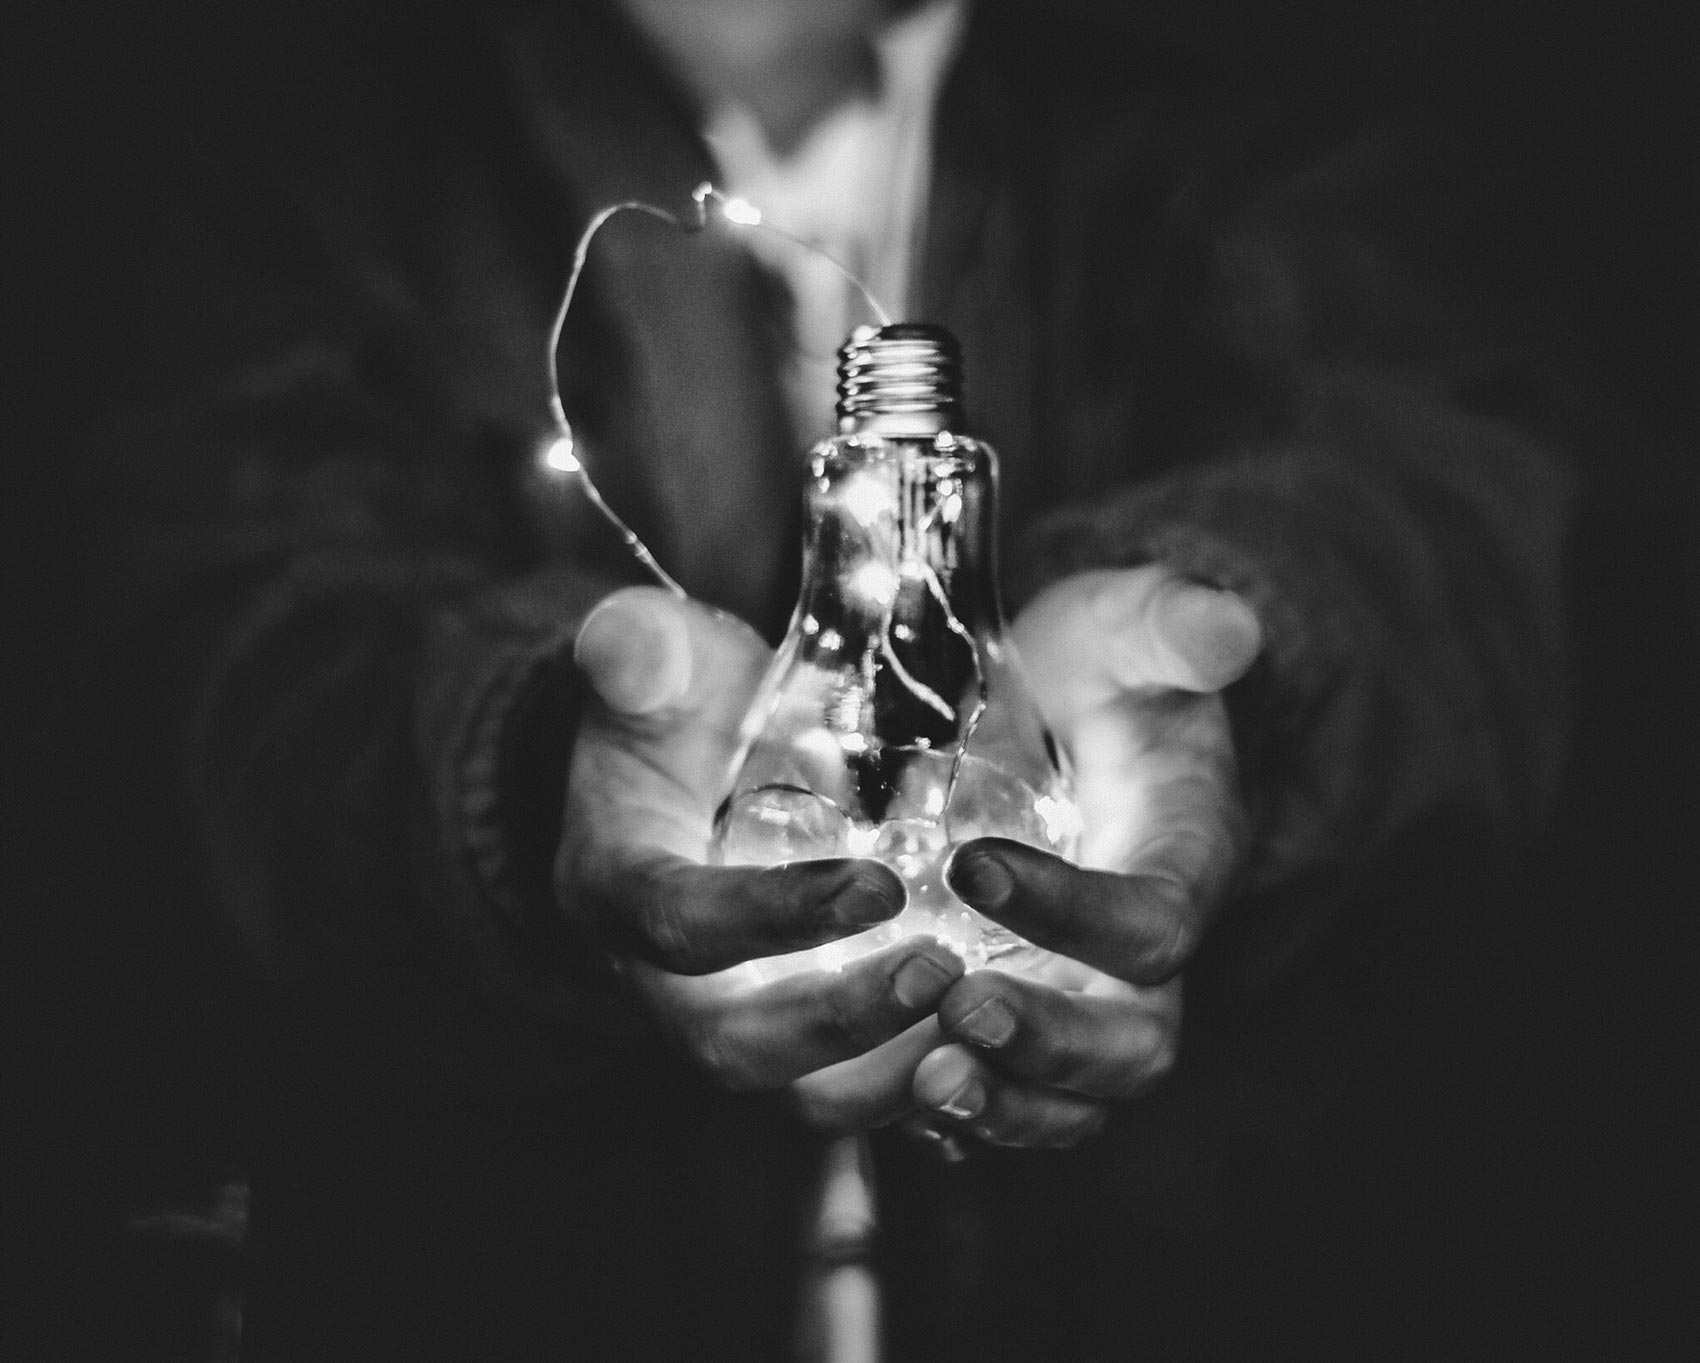
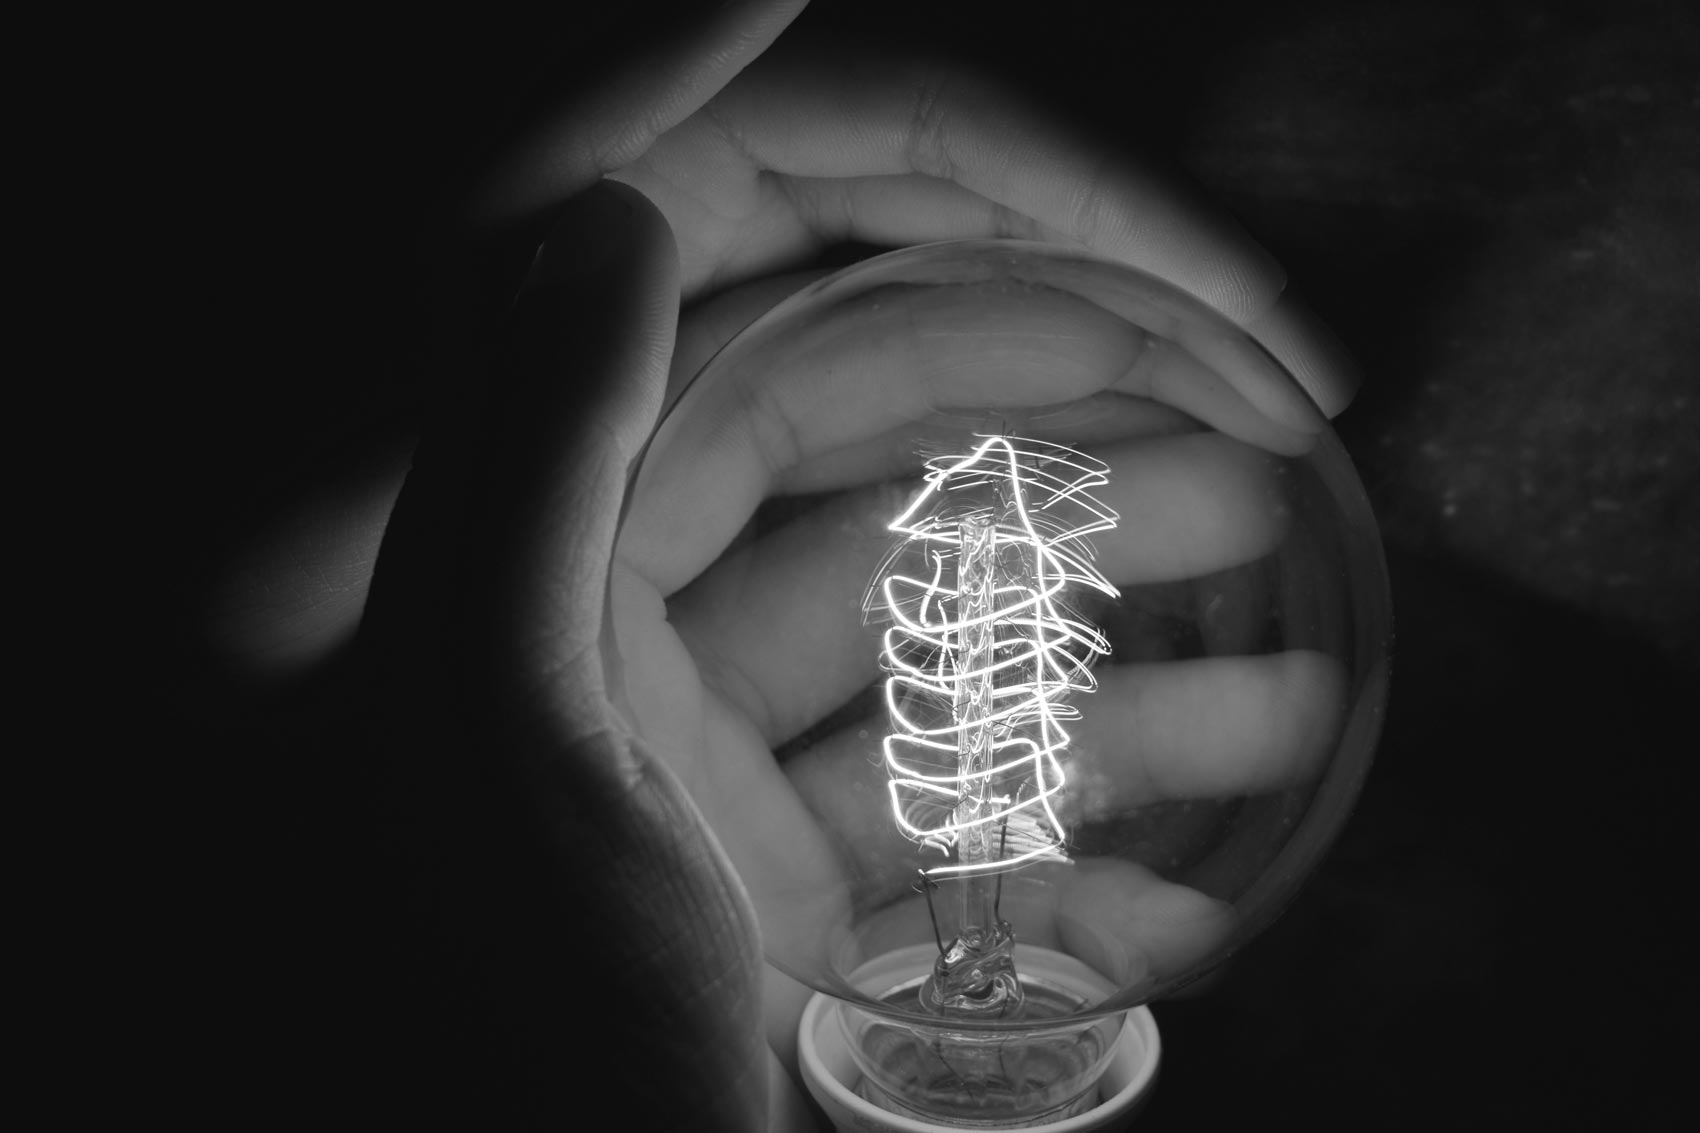
update content, reduce purple, update images

diff --git a/_sass/main.scss b/_sass/main.scss
@@ -433,6 +433,15 @@ header > nav{
 	    padding: 6rem 0;
 	}
 }
+main[data-current="home"]{
+	background: $black;
+}
+#homepage-sections{
+	display: grid;
+	grid-template-columns: inherit;
+	grid-column: 1 / 13;
+	background-color: rgba(66, 39, 144, 1);
+}
 .section-intro{
 	display: grid;
     grid-column: 1 / 13;
@@ -789,45 +798,48 @@ li.icon_list-item,li.family_list-item,li.testimonials_list-item, .posts li{
 	@media(min-width:$sm){
 		flex-direction: row;
 	}
-	.customers-questions--title{
-		display: flex;
+	h3{
+		border-bottom: 2px solid $brand-color;
+		padding-bottom: 1rem;
+		margin-bottom: 3rem;
+	}
+	.customers-questions--solutions{
+		//display: flex;
+		////flex-wrap: wrap;
 		align-items: center;
-		justify-content: center;
+		//justify-content: center;
 		flex-basis: 100%;
-		padding: 6rem;
+		padding: 6rem 4rem;
 		@media(min-width:$sm){
-			flex-basis: 33%;
-			padding: 6rem 4rem;
-		}
-		h3{
-			font-family: $base-font;
-		   // font-weight: 400;
-		    line-height: 1.5;
-		    font-size: 1.8rem;
-			padding: 0 0 1rem 0;
+			flex-basis: 50%;
+			padding: 6rem;
 		}
 	}
 	.customers-questions--list{
 		flex-basis: 100%;
-		padding: 4rem;
+		padding: 6rem 4rem;
 		//background: $light-grey;
 		@media(min-width:$sm){
-			flex-basis: 67%;
+			flex-basis: 50%;
+			padding: 6rem;
 		}
 		ul{
 			list-style: none;
-			padding: 2rem 0;
+			padding: 0;
 			//border-bottom: 2px solid $brand-color;
-			//margin-bottom: 2rem;
+			margin-bottom: 2rem;
 			li{
-				margin-left: 0;
+				position: relative;
 				//margin-bottom: 1rem;
 				font-size: 1.4rem;
+				margin:0 0 1rem 3rem;
 				&:before{
+					position: absolute;
+					left: -3rem;
 					content:'\02713';
 					margin-right: 1rem;
 					color: $brand-color;
-					font-size: 2rem;
+					//font-size: 2rem;
 				}
 			}
 		}
@@ -1062,15 +1074,19 @@ transition: all .5s linear 1.4s;
 }
 .green{
 	background: $brand-color;
+	color: #fff;
 }
 .black{
 	background: $black;
+	color: #fff;
 }
 .purple{
 	background: $purple;
+	color: #fff;
 }
 .dark-grey{
 	background: $dark-grey;
+	color: #fff;
 }
 .center{
 	text-align: center;

diff --git a/assets/js/app.js b/assets/js/app.js
@@ -74,6 +74,7 @@ function v360init(){
 			}
 			lastScroll = currentScroll;
 			
+			iconListBackground('homepage-sections');
 /*
 			var belowHeader;
 			var hero = document.getElementById('hero');
@@ -244,12 +245,14 @@ function backgroundColorScroll(wrapper, elements) {
 }
 
 function iconListBackground(wrapper){
-	var w = document.getElementById(wrapper);
-	var offset = w.getBoundingClientRect().top;
-	
-		o = offset / vh;
-		if (o > 0 && o < 1){
-		w.style.opacity = o;
+	const w = document.getElementById(wrapper);
+	if(w){
+		const wHeight = w.offsetHeight;
+		var offsetT = w.getBoundingClientRect().top;
+			o = (wHeight + offsetT) / wHeight;
+			if (o > 0 && o < 1){
+			w.style.backgroundColor = 'rgba(66, 39, 144,' + o + ')';
+		}
 	}
 }
 
@@ -295,7 +298,9 @@ function runLogoAnimation() {
 
 // Reset state classes while new page loading
 function pageLoading(){
-	//var n = document.getElementById('nav');
+	console.log(window.location.hash);
+	//show the nav bar
+	b.classList.remove('scroll-down');
 	// Close the nav panel
 	b.classList.remove('nav-open');
 	// Set nav button back to closed state
@@ -305,7 +310,10 @@ function pageLoading(){
 	//unset smooth scroll behaviour before resetting scroll position
 	//html.style.cssText = "scroll-behavior: auto;";
 	// Set scroll position back to top
-	window.scrollTo(0, 0);
+	if(!window.location.hash){
+		console.log('scrolling');
+		window.scrollTo(0, 0);
+	}
 	//reset smooth scroll behaviour before resetting scroll position
 	//html.style.cssText = "scroll-behavior: smooth;";
 }
@@ -321,6 +329,7 @@ function toggleNav(e){
 	var n = document.getElementById('nav');
 	b.classList.toggle('nav-open');
 	nb.classList.toggle('open');
+	b.classList.remove('scroll-down');
 	e.preventDefault(); e.stopPropagation();
 }
 

diff --git a/_includes/homepage-services.html b/_includes/homepage-services.html
@@ -11,7 +11,7 @@
   <li class="icon_list-item scroll fadeInUp">
   <span class="icon_list-content">
   	<h3>Advisory</h3>
-    <p>{{ page.advisory | markdownify | remove: '<p>' | remove: '</p>' }}</p>
+    <p>{{ page.advisory | markdownify }}</p>
     <a title="Advisory" href="/advisory">Learn More</a>
   </span>
     <span class="icon_list-icon"> {% include icons/handshake.svg %} </span>
@@ -21,7 +21,7 @@
   <li class="icon_list-item scroll fadeInUp">
   <span class="icon_list-content">
   	<h3>Strategic Branding</h3>
-    <p>{{ page.branding | markdownify | remove: '<p>' | remove: '</p>' }}</p>
+    <p>{{ page.branding | markdownify }}</p>
     <a title="Strategic Branding" href="/strategic-branding">Learn More</a>
   </span>
     <span class="icon_list-icon"> {% include icons/bulb.svg %} </span>
@@ -31,7 +31,7 @@
   <li class="icon_list-item scroll fadeInUp">
   <span class="icon_list-content">
   	<h3>Sales, Marketing & Communication</h3>
-    <p>{{ page.sales | markdownify | remove: '<p>' | remove: '</p>' }}</p>
+    <p>{{ page.sales | markdownify }}</p>
     <a title="Sales, Marketing & Communication" href="/sales-marketing-communication">Learn More</a>
   </span>
     <span class="icon_list-icon"> {% include icons/Bullhorn.svg %} </span>
@@ -41,7 +41,7 @@
   <li class="icon_list-item scroll fadeInUp">
   <span class="icon_list-content">
   	<h3>Employee Alignment & Connection</h3>
-    <p>{{ page.employee_alignment | markdownify | remove: '<p>' | remove: '</p>' }}</p>
+    <p>{{ page.employee_alignment | markdownify }}</p>
     <a title="Employee Alignment & Connection" href="/employee_alignment_connection">Learn More</a>
   </span>
     <span class="icon_list-icon"> {% include icons/network.svg %} </span>

diff --git a/_includes/homepage-customers.html b/_includes/homepage-customers.html
@@ -1,14 +1,7 @@
-<section class="customers-questions dark-grey">
-	<div class="customers-questions--title purple right-to-bottom-triangle scroll slideInLeft">
-{% if page.customers_intro and page.customers_intro != '' %}
-  <h3 class="center no-padding">
-    {{ page.customers_intro | markdownify | remove: '<p>' | remove: '</p>' }}
-  </h3>
-{% endif %}
-	</div>
-	<div class="customers-questions--list" data-wow-delay=".8s">
-		<h3 class="no-padding">Your business:</h3>
-		<ul class="customers_list scroll fadeIn">
+<section id="intro" class="customers-questions white">
+	<div class="customers-questions--list scroll fadeIn">
+		<h3>Your business:</h3>
+		<ul class="customers_list">
 		{% if page.customers_scenarios and page.customers_scenarios != '' %}
 		  {% for scenario in page.customers_scenarios %}
 		  <li class="customers_list-item">
@@ -23,14 +16,12 @@
 		  </h4>
 		{% endif %}
 	</div>
-</section>
-<section class="customers-outro content-col scroll fadeIn" data-wow-delay=".4s">
-	<h3>How do we do it?</h3>
-{% if page.customers_outro and page.customers_outro != '' %}
-  <p>
-    {{ page.customers_outro | markdownify | remove: '<p>' | remove: '</p>' }}
-  </p>
-{% endif %}
+	<div class="customers-questions--solutions  grey scroll fadeIn" data-wow-delay=".33s">
+		<h3>Our approach:</h3>
+		{% if page.customers_intro and page.customers_intro != '' %}
+		    {{ page.customers_intro | markdownify }}
+		{% endif %}
+	</div>
 </section>
 <section class="page-cta green">
 	<span class="content-col scroll fadeIn">

diff --git a/_includes/footer.html b/_includes/footer.html
@@ -1,9 +1,9 @@
-<footer class="purple">
+<footer class="grey">
 	<section class="footer-col footer-col--contact">
 		<h3>Let's talk</h3>
 		<a href="mailto:hello@verve360.com.au">hello@verve360.com.au</a>
 		<p>Book your free one-hour advisory session</p>
-		<a class="button button--blank-white" href="/contact">Book now</a>
+		<a class="button button--green" href="/contact">Book now</a>
 	</section>
 	
 	<section class="footer-col footer-col--explore">
@@ -19,7 +19,7 @@
 	<section class="footer-col footer-col--newsletter">
 		<h3>Let's be inspired</h3>
 		<input type="email" placeholder="Email">
-		<input class ="button button--blank-white"type="submit" title="Submit">
+		<input class ="button button--green"type="submit" title="Submit">
 	</section>
 
 <span class="copyright">&copy; {{ "now" | date: "%Y" }} Verve360</span>

diff --git a/_layouts/page.html b/_layouts/page.html
@@ -1,7 +1,7 @@
 ---
 layout: default
 ---
-<div class="page-header hero-section" style="background-image:linear-gradient(0deg, rgba(66,39,144,.5) 0%,rgba(0,0,0,1) 100%),url(/assets/img/{{page.hero-image}});">
+<div class="page-header hero-section" {% include hero-section.html %}>
 <h2 class="page-header--title">{{ page.title }}</h2>
 <span class="page-header--intro">
 {% include page-intro.html %}
@@ -9,7 +9,7 @@ layout: default
 <div id="particles"></div>
 </div>
 
-<div class="content">
+<div class="content white">
 	<section class="content-col scroll fadeIn">
 	{{ content }}
 	</section>

diff --git a/_sass/partials/_app.scss b/_sass/partials/_app.scss
@@ -411,8 +411,9 @@ footer {
   grid-template-columns: repeat(12,1fr);
  // background-color: $grey-bg-color;
   
-  a,a:visited{
+  a:not(.button),a:visited:not(.button){
 	  text-decoration: none;
+	  color: $black;
   }
   ul>li{
 	  list-style: none;
@@ -454,7 +455,8 @@ footer {
 	  input[type="email"]{
 		padding: 6px;
 	    margin-bottom: 2rem;
-	    border: 2px solid #fff;
+	    //background: $light-grey;
+	   // border: 1px solid $black;
 	  }
   }
   .copyright{

diff --git a/_layouts/about-you.html b/_layouts/about-you.html
@@ -3,7 +3,7 @@ layout: default
 ---
 
 
-<div class="page-header about-header hero-section" style="background-image:linear-gradient(0deg, rgba(66,39,144,.5) 0%,rgba(0,0,0,1) 100%),url(/assets/img/{{page.hero-image}});">
+<div class="page-header about-header hero-section" {% include hero-section.html %}>
 	  <h2 class="page-header--title">About You</h2>
 	  
 	{% if page.customers_subheading and page.customers_subheading != '' %}

diff --git a/_sass/partials/_typography.scss b/_sass/partials/_typography.scss
@@ -78,6 +78,7 @@ small {
 a,
 a:visited {
   border-bottom: 1px solid $link-color;
+  padding-bottom: .15em;
 	text-decoration: none;
 	color: $link-color;
 }
@@ -107,7 +108,7 @@ a.button,button.button,input.button{
 	}
 }
 a.button--green,button.button--green,input.button--green{
-	background: transparent;
+	background: #fff;
 	color: $brand-color;
 	-webkit-font-smoothing: antialiased;
 	border: 2px solid $brand-color;

diff --git a/_layouts/post.html b/_layouts/post.html
@@ -3,7 +3,7 @@ layout: default
 ---
 {% assign author = site.data.authors[page.author] %}
 
-<div class="page-header hero-section" style="background-image:linear-gradient(0deg, rgba(66,39,144,.5) 0%,rgba(0,0,0,1) 100%),url(/assets/img/{{page.hero-image}});">
+<div class="page-header hero-section" {% include hero-section.html %}>
 <h2 class="page-header--title">{{ page.title }}</h2>
 
 <span class="page-header--intro">

diff --git a/_includes/homepage-header.html b/_includes/homepage-header.html
@@ -1,4 +1,4 @@
-<section class="hero-section home-header" style="background-image:linear-gradient(0deg, rgba(66,39,144,.5) 0%,rgba(0,0,0,1) 100%),url(/assets/img/{{page.hero-image}});">
+<section class="hero-section home-header" {% include hero-section.html %}>
 {% if page.headline and page.headline != '' %}
   <h2 id="hero" class="hero-section--headline home-header--headline">
     {{ page.headline | markdownify }}

diff --git a/_layouts/about.html b/_layouts/about.html
@@ -3,7 +3,7 @@ layout: default
 ---
 
 
-<div class="page-header about-header hero-section" style="background-image:linear-gradient(0deg, rgba(66,39,144,.5) 0%,rgba(0,0,0,1) 100%),url(/assets/img/{{page.hero-image}});">
+<div class="page-header about-header hero-section" {% include hero-section.html %}>
 	  <h2 class="page-header--title">About us</h2>
 	  
 	{% if page.about-intro and page.about-intro != '' %}
